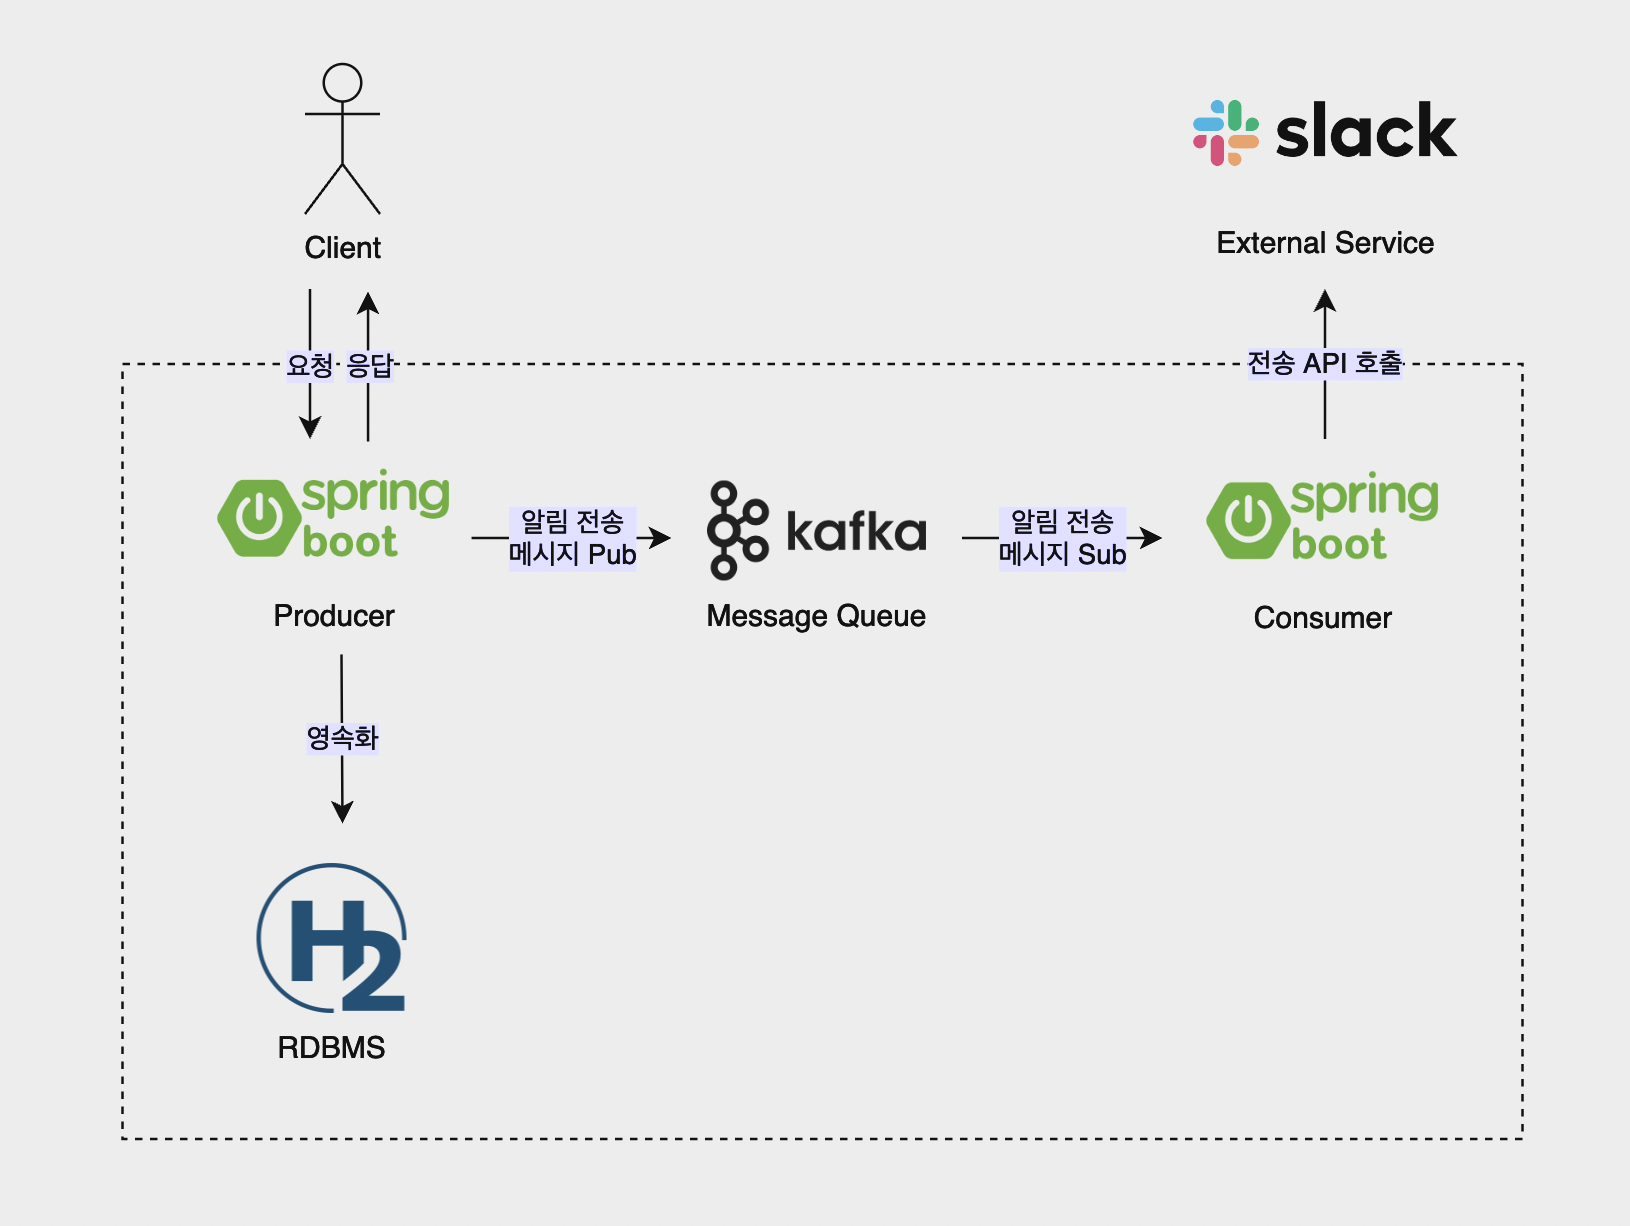
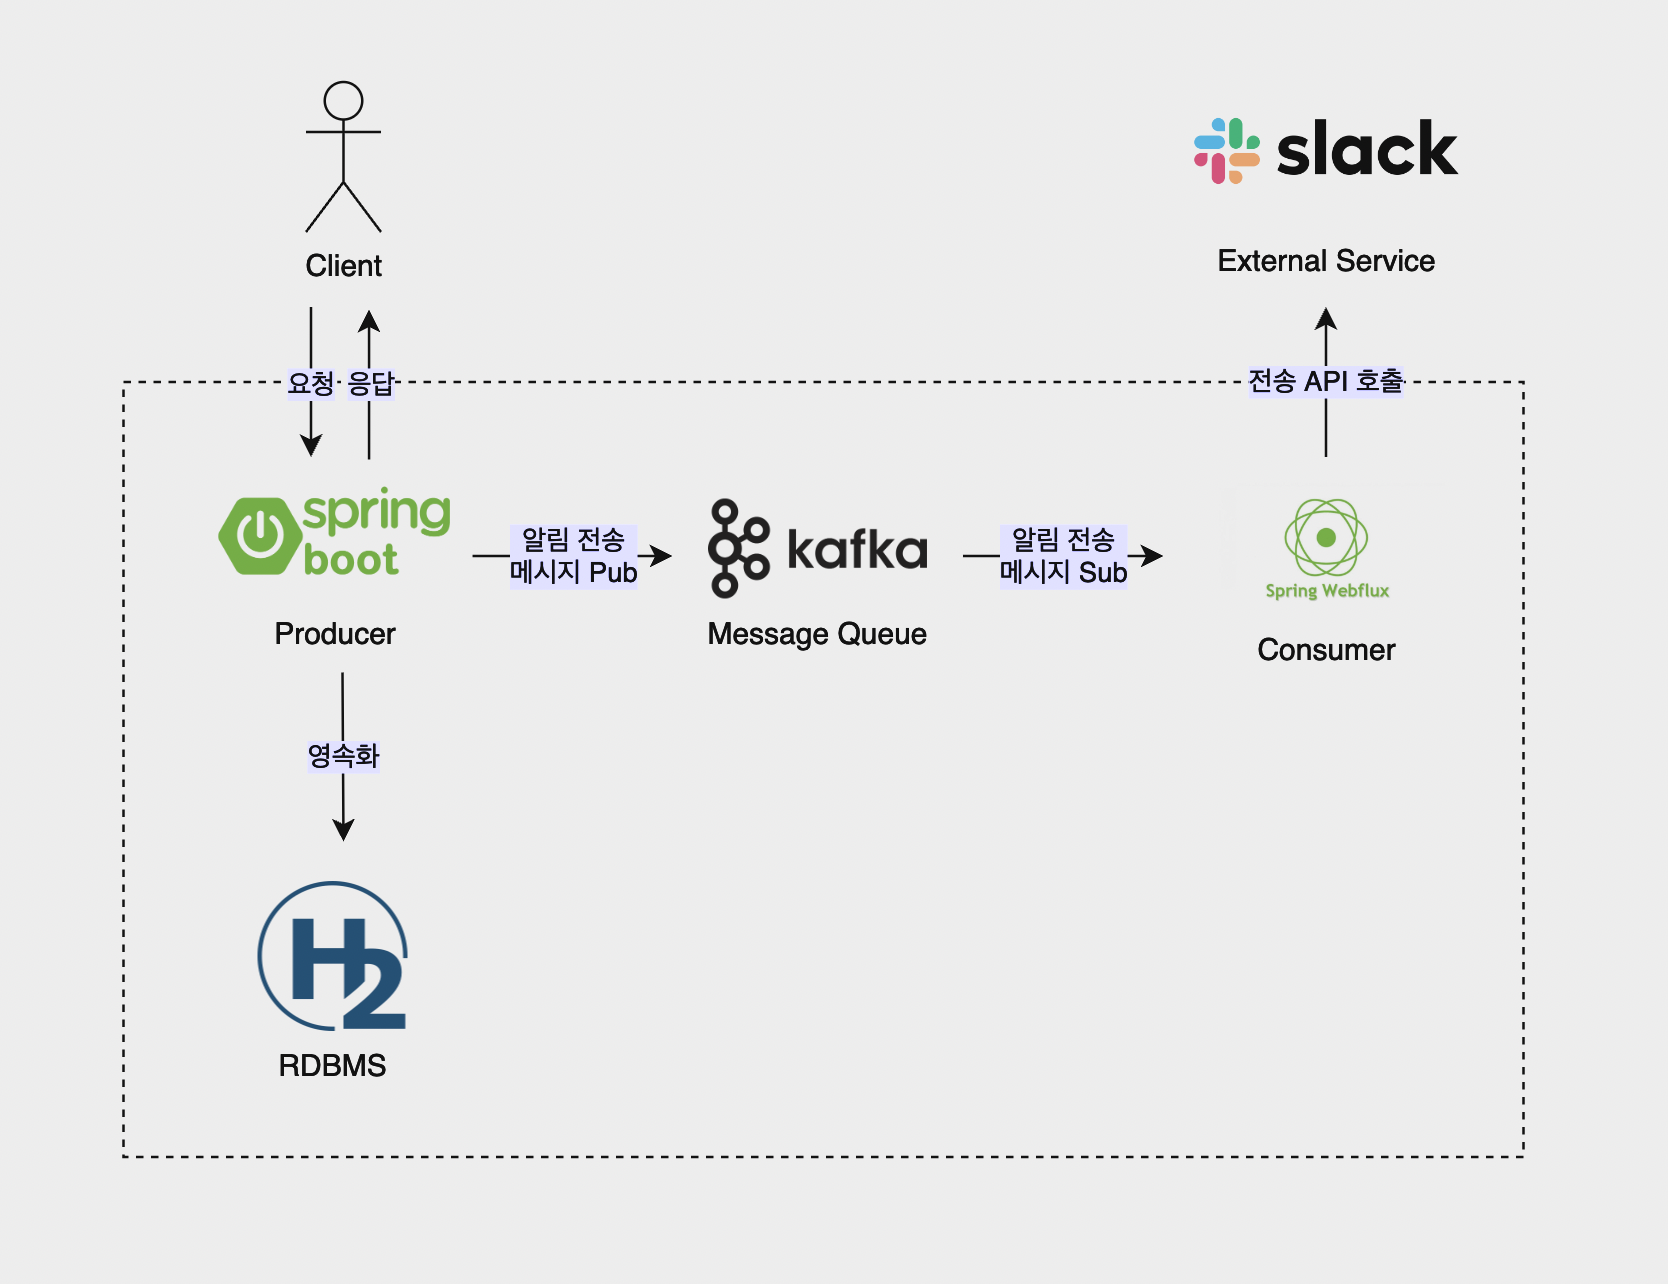
edit readme

diff --git a/README.md b/README.md
@@ -1,5 +1,7 @@
 # error-notifier
 
+## 0. 프로젝트 설명 및 목차
+
 > 사용자 알림 그룹 관리 및 실시간 장애 알림 서비스
 
 `error-notifier`는 **알림 대상 목록, 심각도, 장애 내용을 전달 받아 외부 서비스로 장애 알림 메시지를 전송**하기 위한 서비스입니다.
@@ -21,10 +23,11 @@
 
 프로젝트 개발에 사용한 기술 스택은 다음과 같습니다.
 - Language : `Java 21`
-- Framework : `Spring Boot 3.3.3`
+- Framework : `Spring Boot 3.3.3`, `Spring WebFlux`
 - DB : `H2 DB`, `Spring Data JPA`, `Flyway`
-- Test : `JUnit5`, `WireMock`
-- ETC : `Kafka`, `OpenFeign`, `Log4J2`, `Swagger`, `Docker`
+- Test : `JUnit5`
+- MQ : `Spring Kafka`, `Reactor Kafka`
+- ETC : `WebClient`, `Log4J2`, `Swagger`, `Docker`
 
 <br>
 
@@ -98,6 +101,8 @@ curl --location 'http://localhost:8080/v1/alerts' \
 
 장애 알림 메시지 전송 **API 처리량을 높이기 위한 고려**, **서비스 확장에 대한 고려**로 인하여 Message Queue를 사용한 Pub/Sub 모델로 구성했습니다.
 
+Consumer 모듈의 경우 MQ에서 message를 읽고 External Service를 호출하는 역할이기 때문에 Spring WebFlux를 사용한 **비동기 I/O로 처리량 향상**을 도모했습니다.
+
 <br>
 
 시스템의 전체적인 흐름은 다음과 같습니다.
@@ -116,6 +121,18 @@ curl --location 'http://localhost:8080/v1/alerts' \
 - 추가적인 서비스를 추가해 message를 구독하여 **서비스 확장이 가능**합니다.
 
 <br>
+
+또한 과제의 선택 사항을 만족시킬수 있습니다.
+
+> 1. 장애로 인해 외부 오픈 API 응답이 지연되거나 일시적으로 사용할 수 없는 경우, 장애 전파를 막기 위한 기능을 구현하거나 해결 방안에 대해 상세히 기술해주세요.
+>
+> 
+> 2. 외부 오픈 API가 초 당 처리할 수 있는 양이 제한되어있는 경우, 초과하는 외부 오픈 API 요청을 막기 위한 기능을 구현하거나 해결 방안에 대해 상세히 기술해주세요.
+
+1. 외부 오픈 API 응답과 관계 없이 Producer는 에러 알림 message를 발행할 수 있으며, Client는 Producer에 즉각적인 응답을 받을 수 있기 때문에 장애 전파를 막을 수 있습니다.
+
+
+2. Consumer 모듈의 polling 주기를 설정하여 어느정도 제한된 처리량에 맞게 조절할 수 있으며, 만약 정확한 초당 처리량을 지켜야 된다면 Leaky Bucket 알고리즘을 사용하여 Rate Limiter를 구현할 것입니다.
 
 ---
 
@@ -170,6 +187,47 @@ producer
 ---
 
 ## 4. DB 스키마
+
+DB는 장애 알림 서비스 특성상 CRUD 모두 빈번히 일어나지 않고, N:M의 스키마 구조 특성상 중복 데이터를 피하기 위해 RDBMS를 사용했습니다. (H2 DB 사용)
+
+만약 Producer 모듈의 레이턴시가 DB로 인해 증가하거나 DB에 병목이 생긴다면, read-write 분리와 로컬 캐시 혹은 Redis와 같은 분산 캐시 사용으로 해결할 수 있습니다.
+
+<br>
+
+스키마는 `users 테이블`과 `noti_group 테이블`이 N:M 관계를 가지기 위해서 중계 테이블인 `noti_group_user 테이블`을 사용했으며, 자동화된 마이그레이션을 위해 Flyway로 관리했습니다.
+
+
+```sql
+# V1__init.sql
+
+CREATE TABLE IF NOT EXISTS users (
+    id UUID PRIMARY KEY,
+    name VARCHAR(30) NOT NULL UNIQUE,
+    token VARCHAR(2048) NOT NULL,
+    channel_id VARCHAR(200) NOT NULL,
+    created_at TIMESTAMP NOT NULL DEFAULT CURRENT_TIMESTAMP,
+    updated_at TIMESTAMP NOT NULL DEFAULT CURRENT_TIMESTAMP ON UPDATE CURRENT_TIMESTAMP
+    );
+
+CREATE TABLE IF NOT EXISTS noti_group (
+    id UUID PRIMARY KEY,
+    name VARCHAR(30) NOT NULL UNIQUE,
+    desc VARCHAR(200) NOT NULL,
+    created_at TIMESTAMP NOT NULL DEFAULT CURRENT_TIMESTAMP,
+    updated_at TIMESTAMP NOT NULL DEFAULT CURRENT_TIMESTAMP ON UPDATE CURRENT_TIMESTAMP
+    );
+
+CREATE TABLE IF NOT EXISTS noti_group_user (
+    id UUID PRIMARY KEY,
+    noti_group_id UUID NOT NULL,
+    user_id UUID NOT NULL,
+    created_at TIMESTAMP NOT NULL DEFAULT CURRENT_TIMESTAMP,
+    updated_at TIMESTAMP NOT NULL DEFAULT CURRENT_TIMESTAMP ON UPDATE CURRENT_TIMESTAMP,
+    FOREIGN KEY (noti_group_id) REFERENCES noti_group(id) ON DELETE CASCADE,
+    FOREIGN KEY (user_id) REFERENCES users(id) ON DELETE CASCADE,
+    CONSTRAINT unique_combination UNIQUE (noti_group_id, user_id)
+    );
+```
 
 <br>
 
@@ -270,6 +328,19 @@ Response : 200 OK application/json
 
 ## 6. 라이브러리 및 오픈소스 사용 목적
 
+> 기술스택은 [0. 프로젝트 설명 및 목차](#0-프로젝트-설명-및-목차)에 설명되어 있으며, 앞서 충분히 설명된 요소는 생략했습니다. 
+
+### Spring WebFlux
+
+외부 서비스 호출에 중점적인 Consumer 모듈의 특성을 고려하여 성능 향상 및 자원의 효율성을 위해 WebFlux를 사용했습니다.
+
+### Flyway
+
+마이그레이션 자동화 및 DB 스키마 변경 이력을 남기기 위해 사용했습니다.
+
+### Docker
+
+로컬 실행 환경을 단순화 하기 위해 Docker Compose를 사용했습니다.
 
 <br>
 
